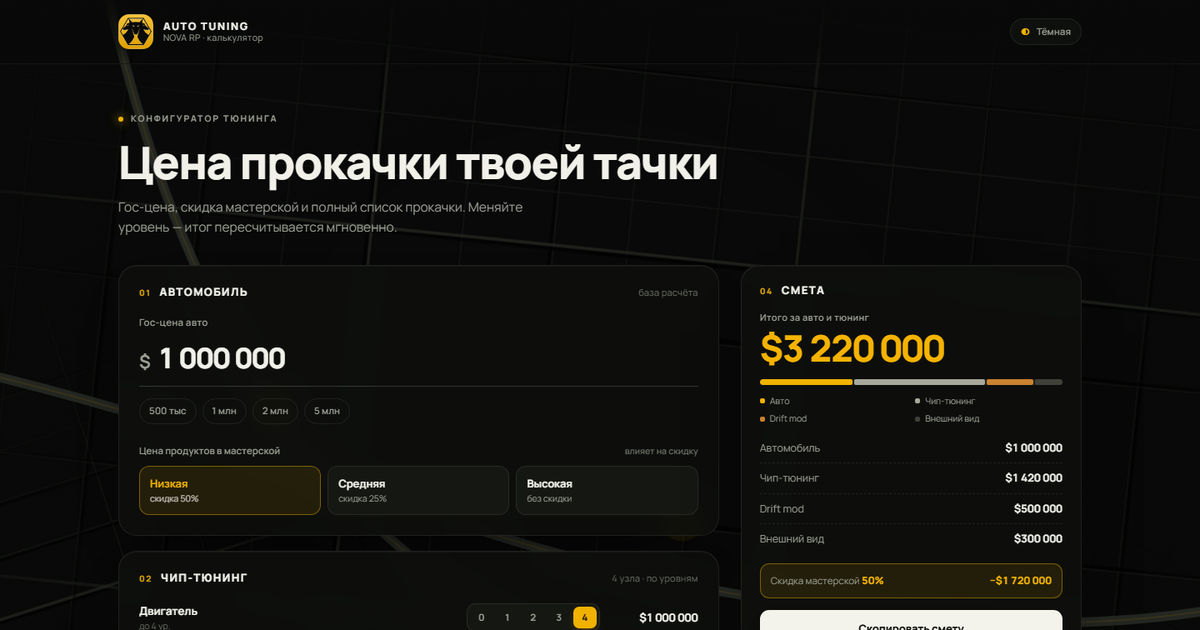
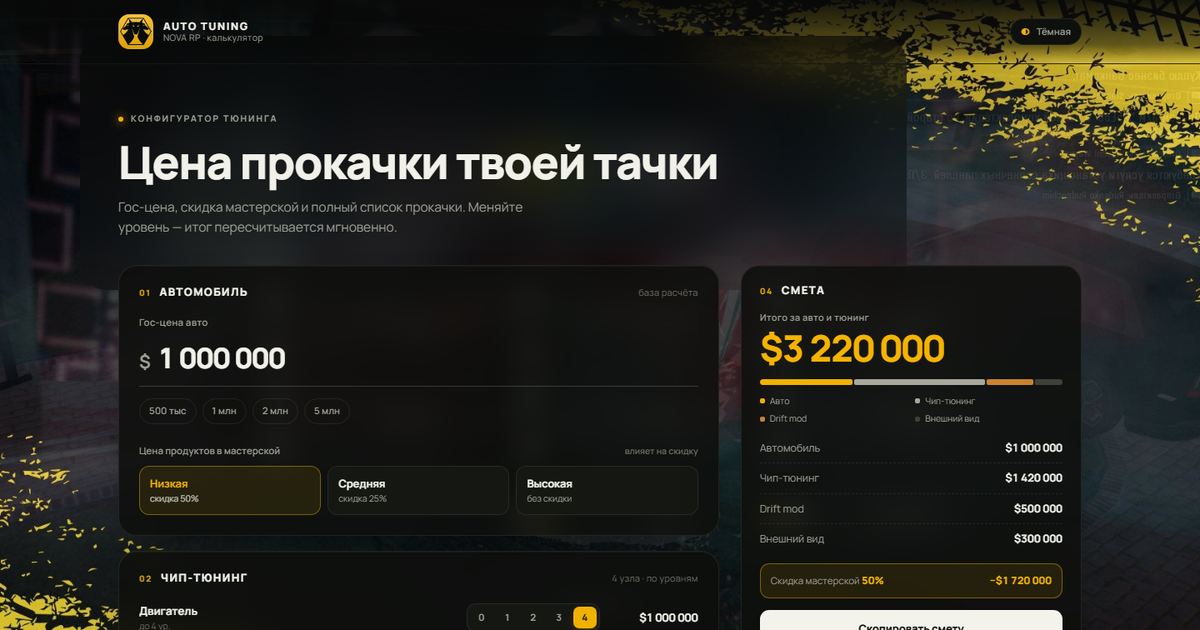
Use gold backdrop as site background with blurred hero

diff --git a/index.html b/index.html
@@ -96,8 +96,9 @@ button{font:inherit;color:inherit;background:none;border:0;cursor:pointer}
 input{font:inherit;color:inherit}
 
 .bg{position:fixed;inset:0;z-index:-1;overflow:hidden;pointer-events:none}
-.map{position:absolute;inset:0;width:100%;height:100%;opacity:.72;display:block}
-html[data-theme="light"] .map{display:none}
+.bgimg{position:absolute;inset:0;width:100%;height:100%;object-fit:cover;display:block}
+.bg picture{display:contents}
+html[data-theme="light"] .bgimg{display:none}
 .bg::before{
   content:"";position:absolute;inset:-20%;
   background:
@@ -119,7 +120,7 @@ html[data-theme="light"] .bg::before{
 }
 html[data-theme="dark"] .bg::after{
   background-image:none;
-  background:radial-gradient(120% 95% at 50% 30%, transparent 22%, rgba(8,9,8,.5) 68%, rgba(8,9,8,.88) 100%);
+  background:rgba(8,9,8,.32);
 }
 
 .wrap{max-width:var(--wrap);margin:0 auto;padding:0 32px}
@@ -145,7 +146,14 @@ html[data-theme="dark"] .top{background:linear-gradient(180deg,rgba(8,9,8,.92) 0
 .theme-ico{font-size:12px;line-height:1;color:var(--accent)}
 
 /* ---------- hero ---------- */
-.hero{padding:58px 0 34px;max-width:900px}
+.hero{position:relative;z-index:0;padding:58px 0 34px;max-width:900px}
+.hero::before{content:"";position:absolute;inset:-34px -46px -30px -46px;border-radius:32px;
+  background:linear-gradient(180deg,rgba(8,9,8,.72) 0%,rgba(8,9,8,.58) 62%,rgba(8,9,8,.32) 100%);
+  -webkit-mask-image:radial-gradient(125% 130% at 32% 45%,#000 42%,transparent 100%);
+  mask-image:radial-gradient(125% 130% at 32% 45%,#000 42%,transparent 100%);
+  backdrop-filter:blur(30px) saturate(120%);-webkit-backdrop-filter:blur(30px) saturate(120%);
+  z-index:-1}
+html[data-theme="light"] .hero::before{display:none}
 .eyebrow{display:flex;align-items:center;gap:9px;margin:0 0 16px;
   font-size:10.5px;font-weight:700;letter-spacing:.19em;text-transform:uppercase;color:var(--muted)}
 .eyebrow .dot{width:6px;height:6px;border-radius:99px;background:var(--accent);box-shadow:0 0 12px var(--accent)}
@@ -302,56 +310,10 @@ footer{border-top:1px solid var(--line);margin-top:8px}
 </head>
 <body>
 <div class="bg">
-<svg class="map" xmlns="http://www.w3.org/2000/svg" viewBox="0 0 1600 1000" preserveAspectRatio="xMidYMid slice">
-<defs>
-<filter id="glow" x="-140%" y="-140%" width="380%" height="380%"><feGaussianBlur stdDeviation="7" result="b"/><feMerge><feMergeNode in="b"/><feMergeNode in="SourceGraphic"/></feMerge></filter>
-<radialGradient id="g0" cx="50%" cy="50%" r="62%"><stop offset="45%" stop-color="#fff"/><stop offset="100%" stop-color="#000"/></radialGradient>
-<mask id="m0"><rect x="-450.0" y="-340.0" width="900" height="680" fill="url(#g0)"/></mask>
-<radialGradient id="g1" cx="50%" cy="50%" r="62%"><stop offset="45%" stop-color="#fff"/><stop offset="100%" stop-color="#000"/></radialGradient>
-<mask id="m1"><rect x="-575.0" y="-380.0" width="1150" height="760" fill="url(#g1)"/></mask>
-<radialGradient id="g2" cx="50%" cy="50%" r="62%"><stop offset="45%" stop-color="#fff"/><stop offset="100%" stop-color="#000"/></radialGradient>
-<mask id="m2"><rect x="-410.0" y="-310.0" width="820" height="620" fill="url(#g2)"/></mask>
-<radialGradient id="g3" cx="50%" cy="50%" r="62%"><stop offset="45%" stop-color="#fff"/><stop offset="100%" stop-color="#000"/></radialGradient>
-<mask id="m3"><rect x="-260.0" y="-210.0" width="520" height="420" fill="url(#g3)"/></mask>
-</defs>
-<path d="M -40 470 C 150 510 230 600 246 700 C 260 790 210 870 120 930 L 120 1040 L -40 1040 Z" fill="#0a0d0b"/>
-<path d="M -40 470 C 150 510 230 600 246 700 C 260 790 210 870 120 930" fill="none" stroke="#2c2f29" stroke-width="2" opacity=".6"/>
-<g transform="translate(250 600) rotate(-18)" mask="url(#m0)">
-<path d="M-450.0 -370.0 Q-444.9 0 -450.0 370.0" stroke="#33362e" stroke-width="2.2" opacity="0.76"/><path d="M-395.3 -370.0 Q-386.4 0 -395.3 370.0" stroke="#20231e" stroke-width="1.2" opacity="0.67"/><path d="M-345.0 -370.0 Q-349.3 0 -345.0 370.0" stroke="#20231e" stroke-width="1.2" opacity="0.68"/><path d="M-240.7 -370.0 Q-239.5 0 -240.7 370.0" stroke="#20231e" stroke-width="1.2" opacity="0.63"/><path d="M-191.3 -370.0 Q-190.5 0 -191.3 370.0" stroke="#33362e" stroke-width="2.2" opacity="0.71"/><path d="M-134.0 -370.0 Q-135.5 0 -134.0 370.0" stroke="#20231e" stroke-width="1.2" opacity="0.59"/><path d="M-76.7 -370.0 Q-78.6 0 -76.7 370.0" stroke="#20231e" stroke-width="1.2" opacity="0.81"/><path d="M-24.6 -370.0 Q-18.5 0 -24.6 370.0" stroke="#20231e" stroke-width="1.2" opacity="0.87"/><path d="M35.4 -370.0 Q36.2 0 35.4 370.0" stroke="#20231e" stroke-width="1.2" opacity="0.84"/><path d="M93.5 -370.0 Q87.0 0 93.5 370.0" stroke="#33362e" stroke-width="2.2" opacity="0.80"/><path d="M143.3 -370.0 Q134.5 0 143.3 370.0" stroke="#20231e" stroke-width="1.2" opacity="0.73"/><path d="M251.9 -370.0 Q249.6 0 251.9 370.0" stroke="#20231e" stroke-width="1.2" opacity="0.91"/><path d="M310.8 -370.0 Q306.2 0 310.8 370.0" stroke="#20231e" stroke-width="1.2" opacity="0.56"/><path d="M420.9 -370.0 Q414.2 0 420.9 370.0" stroke="#20231e" stroke-width="1.2" opacity="0.66"/><path d="M-490.0 -340.0 Q0 -340.7 490.0 -340.0" stroke="#33362e" stroke-width="2.2" opacity="0.67"/><path d="M-490.0 -260.2 Q0 -255.7 490.0 -260.2" stroke="#20231e" stroke-width="1.2" opacity="0.59"/><path d="M-490.0 -223.6 Q0 -220.8 490.0 -223.6" stroke="#20231e" stroke-width="1.2" opacity="0.56"/><path d="M-490.0 -183.8 Q0 -191.2 490.0 -183.8" stroke="#20231e" stroke-width="1.2" opacity="0.62"/><path d="M-490.0 -145.3 Q0 -152.2 490.0 -145.3" stroke="#20231e" stroke-width="1.2" opacity="0.80"/><path d="M-490.0 -101.5 Q0 -109.3 490.0 -101.5" stroke="#33362e" stroke-width="2.2" opacity="0.81"/><path d="M-490.0 -20.6 Q0 -12.5 490.0 -20.6" stroke="#20231e" stroke-width="1.2" opacity="0.92"/><path d="M-490.0 20.5 Q0 28.7 490.0 20.5" stroke="#20231e" stroke-width="1.2" opacity="0.63"/><path d="M-490.0 103.8 Q0 98.5 490.0 103.8" stroke="#20231e" stroke-width="1.2" opacity="0.63"/><path d="M-490.0 144.4 Q0 137.8 490.0 144.4" stroke="#33362e" stroke-width="2.2" opacity="0.68"/><path d="M-490.0 184.9 Q0 191.8 490.0 184.9" stroke="#20231e" stroke-width="1.2" opacity="0.84"/><path d="M-490.0 229.3 Q0 232.5 490.0 229.3" stroke="#20231e" stroke-width="1.2" opacity="0.66"/><path d="M-490.0 269.7 Q0 269.3 490.0 269.7" stroke="#20231e" stroke-width="1.2" opacity="0.57"/><path d="M-490.0 313.2 Q0 312.4 490.0 313.2" stroke="#20231e" stroke-width="1.2" opacity="0.92"/>
-</g>
-<g transform="translate(880 300) rotate(6)" mask="url(#m1)">
-<path d="M-575.0 -410.0 Q-579.3 0 -575.0 410.0" stroke="#33362e" stroke-width="2.2" opacity="0.74"/><path d="M-514.0 -410.0 Q-516.4 0 -514.0 410.0" stroke="#20231e" stroke-width="1.2" opacity="0.73"/><path d="M-446.7 -410.0 Q-454.0 0 -446.7 410.0" stroke="#20231e" stroke-width="1.2" opacity="0.82"/><path d="M-383.7 -410.0 Q-392.0 0 -383.7 410.0" stroke="#20231e" stroke-width="1.2" opacity="0.69"/><path d="M-323.6 -410.0 Q-321.9 0 -323.6 410.0" stroke="#20231e" stroke-width="1.2" opacity="0.70"/><path d="M-263.8 -410.0 Q-255.2 0 -263.8 410.0" stroke="#33362e" stroke-width="2.2" opacity="0.71"/><path d="M-194.7 -410.0 Q-191.8 0 -194.7 410.0" stroke="#20231e" stroke-width="1.2" opacity="0.77"/><path d="M-129.2 -410.0 Q-122.5 0 -129.2 410.0" stroke="#20231e" stroke-width="1.2" opacity="0.79"/><path d="M-72.8 -410.0 Q-70.7 0 -72.8 410.0" stroke="#20231e" stroke-width="1.2" opacity="0.65"/><path d="M-7.0 -410.0 Q-11.0 0 -7.0 410.0" stroke="#20231e" stroke-width="1.2" opacity="0.61"/><path d="M52.7 -410.0 Q51.7 0 52.7 410.0" stroke="#33362e" stroke-width="2.2" opacity="0.58"/><path d="M114.7 -410.0 Q116.1 0 114.7 410.0" stroke="#20231e" stroke-width="1.2" opacity="0.69"/><path d="M181.2 -410.0 Q176.8 0 181.2 410.0" stroke="#20231e" stroke-width="1.2" opacity="0.69"/><path d="M249.6 -410.0 Q248.6 0 249.6 410.0" stroke="#20231e" stroke-width="1.2" opacity="0.67"/><path d="M313.3 -410.0 Q306.6 0 313.3 410.0" stroke="#20231e" stroke-width="1.2" opacity="0.63"/><path d="M432.9 -410.0 Q440.9 0 432.9 410.0" stroke="#20231e" stroke-width="1.2" opacity="0.73"/><path d="M554.8 -410.0 Q550.1 0 554.8 410.0" stroke="#20231e" stroke-width="1.2" opacity="0.87"/><path d="M-615.0 -333.2 Q0 -338.8 615.0 -333.2" stroke="#20231e" stroke-width="1.2" opacity="0.79"/><path d="M-615.0 -290.9 Q0 -292.0 615.0 -290.9" stroke="#20231e" stroke-width="1.2" opacity="0.58"/><path d="M-615.0 -242.7 Q0 -238.4 615.0 -242.7" stroke="#20231e" stroke-width="1.2" opacity="0.89"/><path d="M-615.0 -191.8 Q0 -192.0 615.0 -191.8" stroke="#20231e" stroke-width="1.2" opacity="0.85"/><path d="M-615.0 -146.4 Q0 -147.8 615.0 -146.4" stroke="#20231e" stroke-width="1.2" opacity="0.56"/><path d="M-615.0 -104.0 Q0 -112.7 615.0 -104.0" stroke="#33362e" stroke-width="2.2" opacity="0.79"/><path d="M-615.0 -52.6 Q0 -43.8 615.0 -52.6" stroke="#20231e" stroke-width="1.2" opacity="0.65"/><path d="M-615.0 83.6 Q0 91.7 615.0 83.6" stroke="#20231e" stroke-width="1.2" opacity="0.76"/><path d="M-615.0 175.4 Q0 171.9 615.0 175.4" stroke="#33362e" stroke-width="2.2" opacity="0.94"/><path d="M-615.0 315.9 Q0 318.4 615.0 315.9" stroke="#20231e" stroke-width="1.2" opacity="0.75"/><path d="M-615.0 359.8 Q0 352.7 615.0 359.8" stroke="#20231e" stroke-width="1.2" opacity="0.94"/>
-</g>
-<g transform="translate(1360 800) rotate(28)" mask="url(#m2)">
-<path d="M-410.0 -340.0 Q-408.3 0 -410.0 340.0" stroke="#33362e" stroke-width="2.2" opacity="0.66"/><path d="M-358.7 -340.0 Q-363.9 0 -358.7 340.0" stroke="#20231e" stroke-width="1.2" opacity="0.75"/><path d="M-312.9 -340.0 Q-307.7 0 -312.9 340.0" stroke="#20231e" stroke-width="1.2" opacity="0.64"/><path d="M-261.3 -340.0 Q-267.3 0 -261.3 340.0" stroke="#20231e" stroke-width="1.2" opacity="0.70"/><path d="M-153.1 -340.0 Q-159.2 0 -153.1 340.0" stroke="#33362e" stroke-width="2.2" opacity="0.75"/><path d="M-98.2 -340.0 Q-97.5 0 -98.2 340.0" stroke="#20231e" stroke-width="1.2" opacity="0.94"/><path d="M-47.4 -340.0 Q-53.0 0 -47.4 340.0" stroke="#20231e" stroke-width="1.2" opacity="0.76"/><path d="M4.6 -340.0 Q-0.9 0 4.6 340.0" stroke="#20231e" stroke-width="1.2" opacity="0.55"/><path d="M60.2 -340.0 Q66.4 0 60.2 340.0" stroke="#20231e" stroke-width="1.2" opacity="0.89"/><path d="M109.9 -340.0 Q118.2 0 109.9 340.0" stroke="#33362e" stroke-width="2.2" opacity="0.91"/><path d="M155.6 -340.0 Q155.6 0 155.6 340.0" stroke="#20231e" stroke-width="1.2" opacity="0.56"/><path d="M206.9 -340.0 Q205.9 0 206.9 340.0" stroke="#20231e" stroke-width="1.2" opacity="0.65"/><path d="M261.6 -340.0 Q257.6 0 261.6 340.0" stroke="#20231e" stroke-width="1.2" opacity="0.86"/><path d="M316.6 -340.0 Q317.9 0 316.6 340.0" stroke="#20231e" stroke-width="1.2" opacity="0.59"/><path d="M363.1 -340.0 Q371.3 0 363.1 340.0" stroke="#33362e" stroke-width="2.2" opacity="0.92"/><path d="M409.7 -340.0 Q407.8 0 409.7 340.0" stroke="#20231e" stroke-width="1.2" opacity="0.64"/><path d="M-450.0 -275.1 Q0 -281.5 450.0 -275.1" stroke="#20231e" stroke-width="1.2" opacity="0.71"/><path d="M-450.0 -235.6 Q0 -228.1 450.0 -235.6" stroke="#20231e" stroke-width="1.2" opacity="0.74"/><path d="M-450.0 -200.2 Q0 -208.8 450.0 -200.2" stroke="#20231e" stroke-width="1.2" opacity="0.81"/><path d="M-450.0 -164.7 Q0 -165.8 450.0 -164.7" stroke="#20231e" stroke-width="1.2" opacity="0.92"/><path d="M-450.0 -129.4 Q0 -132.5 450.0 -129.4" stroke="#20231e" stroke-width="1.2" opacity="0.76"/><path d="M-450.0 -92.0 Q0 -84.3 450.0 -92.0" stroke="#33362e" stroke-width="2.2" opacity="0.93"/><path d="M-450.0 -52.2 Q0 -51.3 450.0 -52.2" stroke="#20231e" stroke-width="1.2" opacity="0.63"/><path d="M-450.0 -16.6 Q0 -11.8 450.0 -16.6" stroke="#20231e" stroke-width="1.2" opacity="0.82"/><path d="M-450.0 17.9 Q0 10.2 450.0 17.9" stroke="#20231e" stroke-width="1.2" opacity="0.76"/><path d="M-450.0 54.9 Q0 52.6 450.0 54.9" stroke="#20231e" stroke-width="1.2" opacity="0.71"/><path d="M-450.0 92.9 Q0 85.2 450.0 92.9" stroke="#20231e" stroke-width="1.2" opacity="0.85"/><path d="M-450.0 132.0 Q0 125.8 450.0 132.0" stroke="#33362e" stroke-width="2.2" opacity="0.67"/><path d="M-450.0 173.8 Q0 169.7 450.0 173.8" stroke="#20231e" stroke-width="1.2" opacity="0.70"/><path d="M-450.0 210.8 Q0 218.9 450.0 210.8" stroke="#20231e" stroke-width="1.2" opacity="0.75"/><path d="M-450.0 248.6 Q0 251.0 450.0 248.6" stroke="#20231e" stroke-width="1.2" opacity="0.93"/><path d="M-450.0 288.2 Q0 280.6 450.0 288.2" stroke="#20231e" stroke-width="1.2" opacity="0.75"/>
-</g>
-<g transform="translate(760 620) rotate(-3)" mask="url(#m3)">
-<path d="M-260.0 -240.0 Q-253.8 0 -260.0 240.0" stroke="#33362e" stroke-width="2.2" opacity="0.70"/><path d="M-215.1 -240.0 Q-207.0 0 -215.1 240.0" stroke="#20231e" stroke-width="1.2" opacity="0.88"/><path d="M-172.9 -240.0 Q-169.8 0 -172.9 240.0" stroke="#20231e" stroke-width="1.2" opacity="0.68"/><path d="M-128.0 -240.0 Q-122.4 0 -128.0 240.0" stroke="#20231e" stroke-width="1.2" opacity="0.65"/><path d="M-83.6 -240.0 Q-89.6 0 -83.6 240.0" stroke="#20231e" stroke-width="1.2" opacity="0.86"/><path d="M-36.4 -240.0 Q-28.2 0 -36.4 240.0" stroke="#33362e" stroke-width="2.2" opacity="0.68"/><path d="M5.9 -240.0 Q8.0 0 5.9 240.0" stroke="#20231e" stroke-width="1.2" opacity="0.55"/><path d="M49.7 -240.0 Q55.6 0 49.7 240.0" stroke="#20231e" stroke-width="1.2" opacity="0.94"/><path d="M90.6 -240.0 Q97.0 0 90.6 240.0" stroke="#20231e" stroke-width="1.2" opacity="0.60"/><path d="M177.5 -240.0 Q181.3 0 177.5 240.0" stroke="#33362e" stroke-width="2.2" opacity="0.66"/><path d="M223.5 -240.0 Q221.1 0 223.5 240.0" stroke="#20231e" stroke-width="1.2" opacity="0.75"/><path d="M-300.0 -210.0 Q0 -211.5 300.0 -210.0" stroke="#33362e" stroke-width="2.2" opacity="0.87"/><path d="M-300.0 -174.1 Q0 -179.0 300.0 -174.1" stroke="#20231e" stroke-width="1.2" opacity="0.75"/><path d="M-300.0 -141.3 Q0 -143.6 300.0 -141.3" stroke="#20231e" stroke-width="1.2" opacity="0.69"/><path d="M-300.0 -102.1 Q0 -102.9 300.0 -102.1" stroke="#20231e" stroke-width="1.2" opacity="0.90"/><path d="M-300.0 -65.0 Q0 -69.2 300.0 -65.0" stroke="#20231e" stroke-width="1.2" opacity="0.86"/><path d="M-300.0 -25.0 Q0 -20.4 300.0 -25.0" stroke="#20231e" stroke-width="1.2" opacity="0.94"/><path d="M-300.0 12.0 Q0 5.0 300.0 12.0" stroke="#33362e" stroke-width="2.2" opacity="0.60"/><path d="M-300.0 51.0 Q0 44.7 300.0 51.0" stroke="#20231e" stroke-width="1.2" opacity="0.87"/><path d="M-300.0 84.5 Q0 92.2 300.0 84.5" stroke="#20231e" stroke-width="1.2" opacity="0.76"/><path d="M-300.0 119.3 Q0 125.9 300.0 119.3" stroke="#20231e" stroke-width="1.2" opacity="0.61"/><path d="M-300.0 155.4 Q0 160.1 300.0 155.4" stroke="#20231e" stroke-width="1.2" opacity="0.56"/><path d="M-300.0 194.2 Q0 200.0 300.0 194.2" stroke="#20231e" stroke-width="1.2" opacity="0.60"/>
-</g>
-<path d="M -60 210 C 260 235 470 300 660 370 S 1100 480 1280 440 S 1520 340 1660 375" fill="none" stroke="#3b3e36" stroke-width="7" stroke-linecap="round" opacity=".85"/>
-<path d="M -60 210 C 260 235 470 300 660 370 S 1100 480 1280 440 S 1520 340 1660 375" fill="none" stroke="#6b5a20" stroke-width="1.3" stroke-linecap="round" opacity=".5"/>
-<path d="M 140 1070 C 320 860 540 760 780 700 S 1200 585 1410 470 S 1580 390 1690 410" fill="none" stroke="#3b3e36" stroke-width="7" stroke-linecap="round" opacity=".85"/>
-<path d="M 140 1070 C 320 860 540 760 780 700 S 1200 585 1410 470 S 1580 390 1690 410" fill="none" stroke="#6b5a20" stroke-width="1.3" stroke-linecap="round" opacity=".5"/>
-<path d="M 430 -50 C 480 200 570 380 770 475 S 1200 610 1370 730 S 1540 890 1620 1030" fill="none" stroke="#3b3e36" stroke-width="7" stroke-linecap="round" opacity=".85"/>
-<path d="M 430 -50 C 480 200 570 380 770 475 S 1200 610 1370 730 S 1540 890 1620 1030" fill="none" stroke="#6b5a20" stroke-width="1.3" stroke-linecap="round" opacity=".5"/>
-<path d="M -40 770 C 220 730 420 770 610 870 S 920 1000 1100 1020" fill="none" stroke="#3b3e36" stroke-width="7" stroke-linecap="round" opacity=".85"/>
-<path d="M -40 770 C 220 730 420 770 610 870 S 920 1000 1100 1020" fill="none" stroke="#6b5a20" stroke-width="1.3" stroke-linecap="round" opacity=".5"/>
-<path d="M 300 520 C 470 470 620 500 760 560 S 980 640 1130 600 S 1330 520 1420 560" fill="none" stroke="#F0B200" stroke-width="1.8" opacity=".22"/>
-<circle cx="300" cy="520" r="16" fill="#F0B200" opacity=".09"/>
-<circle cx="300" cy="520" r="4.4" fill="#F0B200" opacity=".95" filter="url(#glow)"/>
-<circle cx="560" cy="300" r="16" fill="#F0B200" opacity=".09"/>
-<circle cx="560" cy="300" r="4.4" fill="#F0B200" opacity=".95" filter="url(#glow)"/>
-<circle cx="860" cy="380" r="16" fill="#F0B200" opacity=".09"/>
-<circle cx="860" cy="380" r="4.4" fill="#F0B200" opacity=".95" filter="url(#glow)"/>
-<circle cx="1050" cy="640" r="16" fill="#F0B200" opacity=".09"/>
-<circle cx="1050" cy="640" r="4.4" fill="#F0B200" opacity=".95" filter="url(#glow)"/>
-<circle cx="1280" cy="560" r="16" fill="#F0B200" opacity=".09"/>
-<circle cx="1280" cy="560" r="4.4" fill="#F0B200" opacity=".95" filter="url(#glow)"/>
-<circle cx="1420" cy="740" r="16" fill="#F0B200" opacity=".09"/>
-<circle cx="1420" cy="740" r="4.4" fill="#F0B200" opacity=".95" filter="url(#glow)"/>
-<circle cx="420" cy="760" r="16" fill="#F0B200" opacity=".09"/>
-<circle cx="420" cy="760" r="4.4" fill="#F0B200" opacity=".95" filter="url(#glow)"/>
-</svg>
+  <picture>
+    <source media="(max-width: 700px)" srcset="bg-small.jpg">
+    <img class="bgimg" src="bg.jpg" alt="">
+  </picture>
 </div>
 
 <header class="top">
